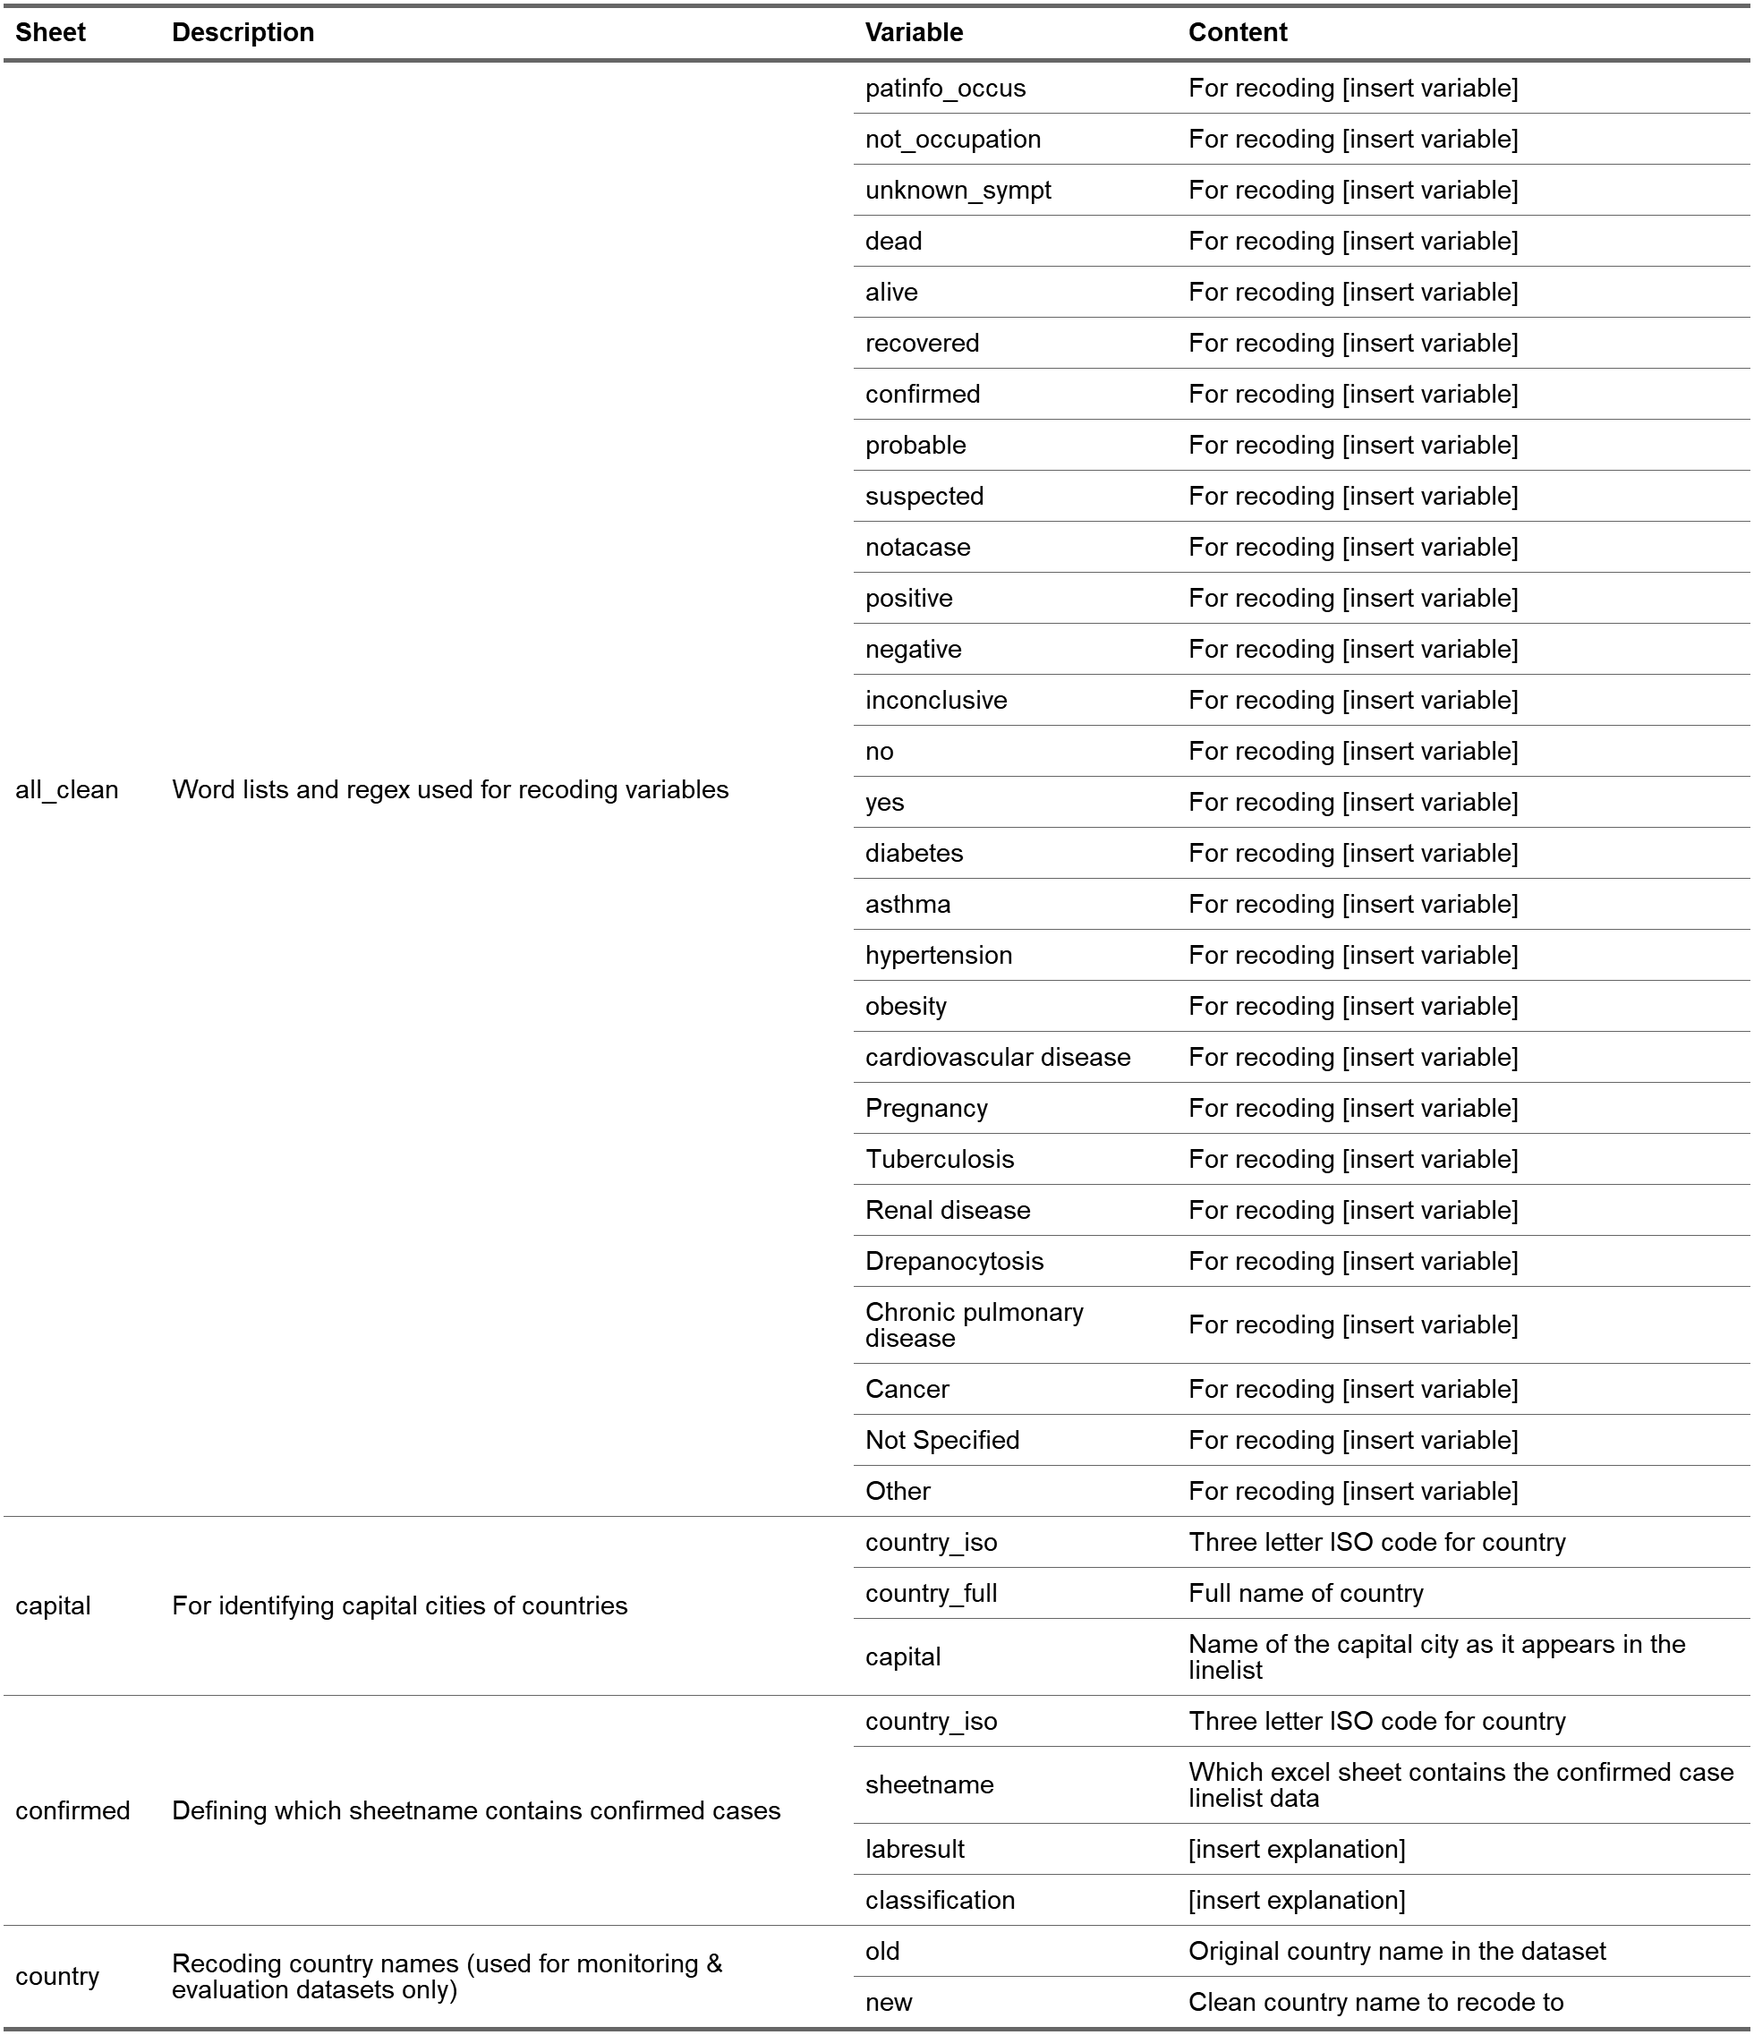
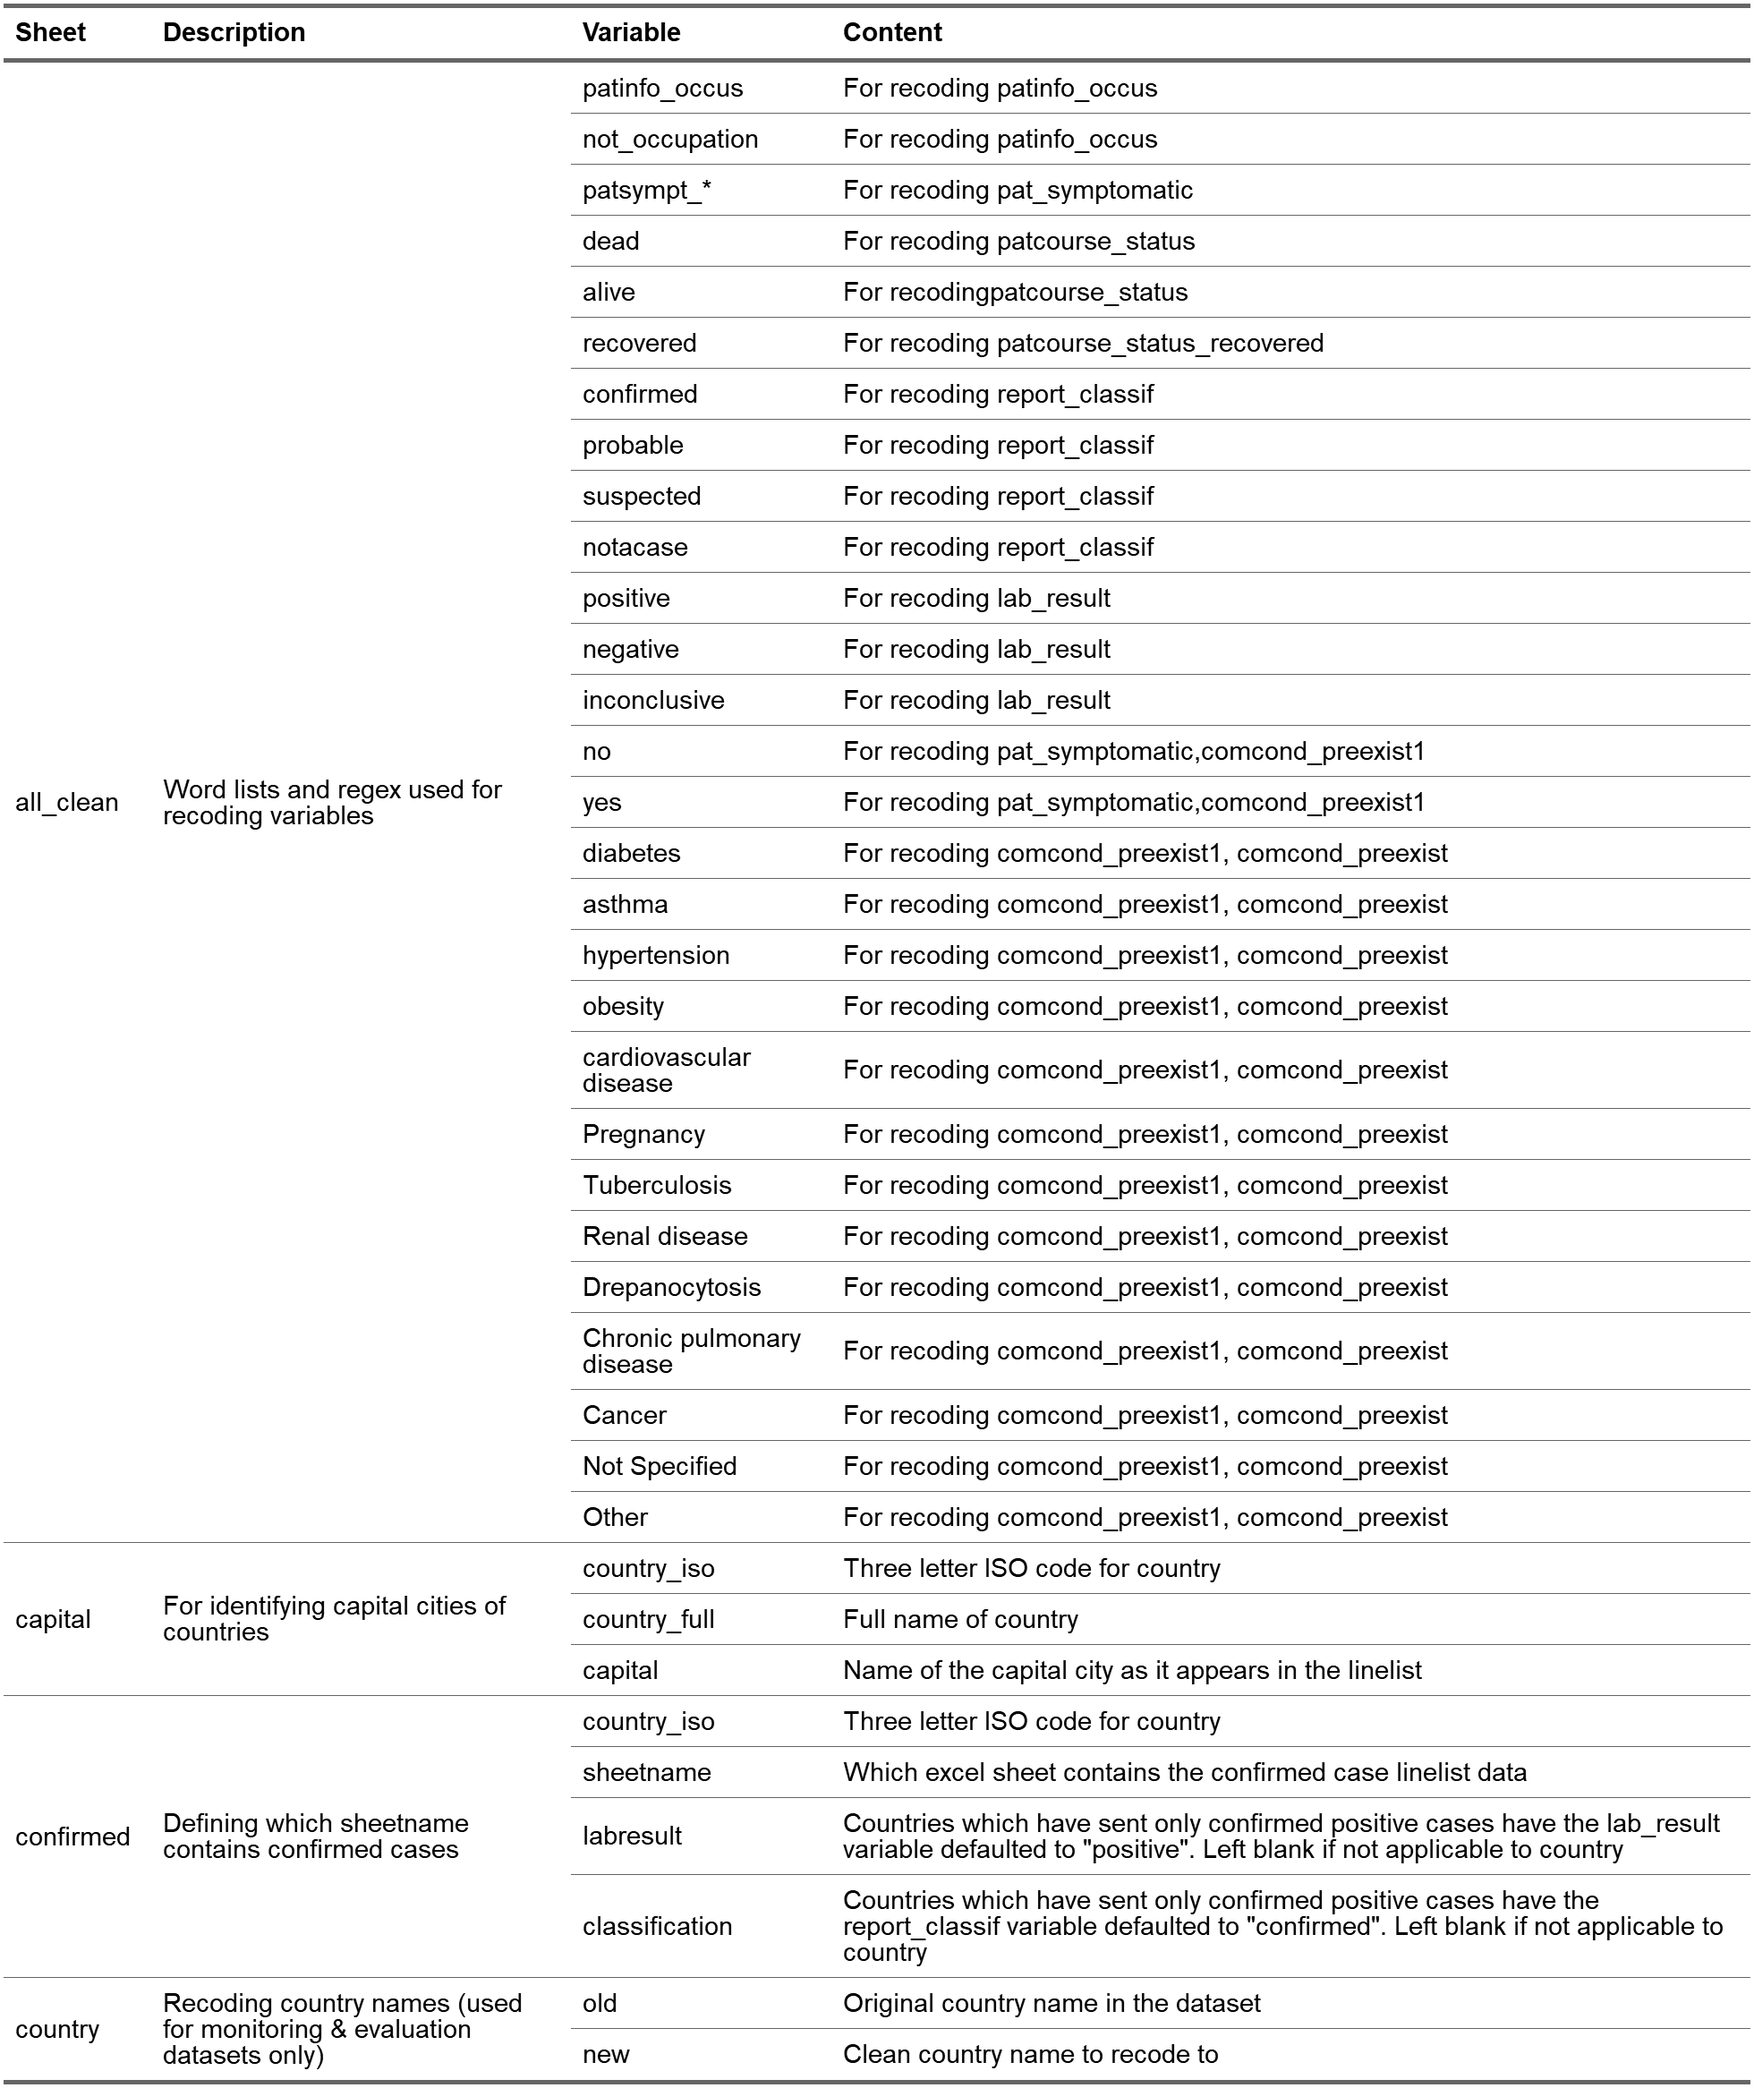
update to readme and template yamls

diff --git a/README.md b/README.md
@@ -76,13 +76,15 @@ All files must be stored as an excel file (i.e. **xlsx**), those stored
 as binary workbooks (**xlsb**) will throw an error and must be re-saved
 as **xlsx**.
 
-**n.b** some countries (e.g. TCD) have saved their date variables in
-excel using the 1904 date system (i.e. date origin is 1st January 1904
-rather than 1900), this needs to be restructured manually in the excel
-file otherwise the *R* function will produce dates that are off by four
-years. See
+**n.b** some countries (e.g. TCD and SEN) have saved their date
+variables in excel using the 1904 date system (i.e. date origin is 1st
+January 1904 rather than 1900), this needs to be restructured manually
+in the excel file otherwise the *R* function will produce dates that are
+off by four years. See
 [here](https://docs.microsoft.com/en-us/office/troubleshoot/excel/1900-and-1904-date-system)
-for details.
+for details. **Lines 484-486** can be uncommented in
+**linelist\_clean.R** raw code to crudely deal with this issue but it is
+recommened to fix the issue manually and not use this quick fix.
 
 ### Dictionaries
 
@@ -103,6 +105,26 @@ the file path within the function call (see help files for function
 argument details). **N.b** sheet and variable names should not be
 changed (otherwise the function will break).
 
+### Outputs
+
+2 **csv** files are outputed from the *R* functions which merge and
+clean country linelists (functions called *merge\_linelist* and
+*clean\_linelist*, respectively).
+
+The first output file beginning with **Cleaned\_linelist\_** (default
+outputname) contains 43 variables and all cases as merged and cleaned by
+the *R* function
+
+The second output begining with **ConfirmedCases\_** contains 19
+variables with only cases that had a confirmed or probable final epi
+classification. Variable names have been simplifed. This file or files
+with the same format and variable names as this output should be used in
+country linelist template (see **Templates** section).
+
+Descriptions, content, cleaning and other information about the
+variables in the output **csv** files are summarised in the tables
+below:
+
 **Table**: Required variables by sheet in the linelist dictionary.
 
 <img src="man/figures/README-linelist_dict-1.png" width="100%" />
@@ -111,9 +133,43 @@ changed (otherwise the function will break).
 
 <img src="man/figures/README-cleaning_dict-1.png" width="100%" />
 
+**Table**: Description of variables in output files.
+
+<img src="man/figures/README-output_vars-1.png" width="100%" />
+
 ### Templates
 
-TODO: add details about how to use templates
+There are two templates available for country linelist data. These are
+similar, however one produces an HTML document (with more content) and
+the other produces a powerpoint document.
+
+#### HTML document
+
+The first will produce a HTML output in the style of a report with
+summary text, tables and figures of the daily situation of Covid-19 in
+the WHO African region. The dataset beginning with **ConfirmedCases\_**
+outputed from the merging and cleaning function should be used as the
+data input in this template.
+
+Select the template entitled “WHO daily Covid-19 report summary (HTML)”.
+Change the date of report (dateofreport) and directory and filename of
+the **ConfirmedCases\_** file you wish to use (inputdirectory) in the
+parameters section (params:) at the top in the yaml header and then
+knit. In order to access templates, follow the steps described in the
+[epichecks
+readme](https://github.com/R4IDSR/epichecks#who-afro-monthly-bulletin).
+
+#### Powerpoint document
+
+This is similar to the HTML document above, but has more tailored
+content. To access it, select the template entitled “WHO daily Covid-19
+report summary (PPT)”.
+
+You will need to update the reference\_doc location in the YAML header
+as well as the current week you are trying to run in the
+“define\_current\_week” code chunk. In order to access templates, follow
+the steps described in the [epichecks
+readme](https://github.com/R4IDSR/epichecks#who-afro-monthly-bulletin).
 
 ## Monitoring & Evaluation
 
